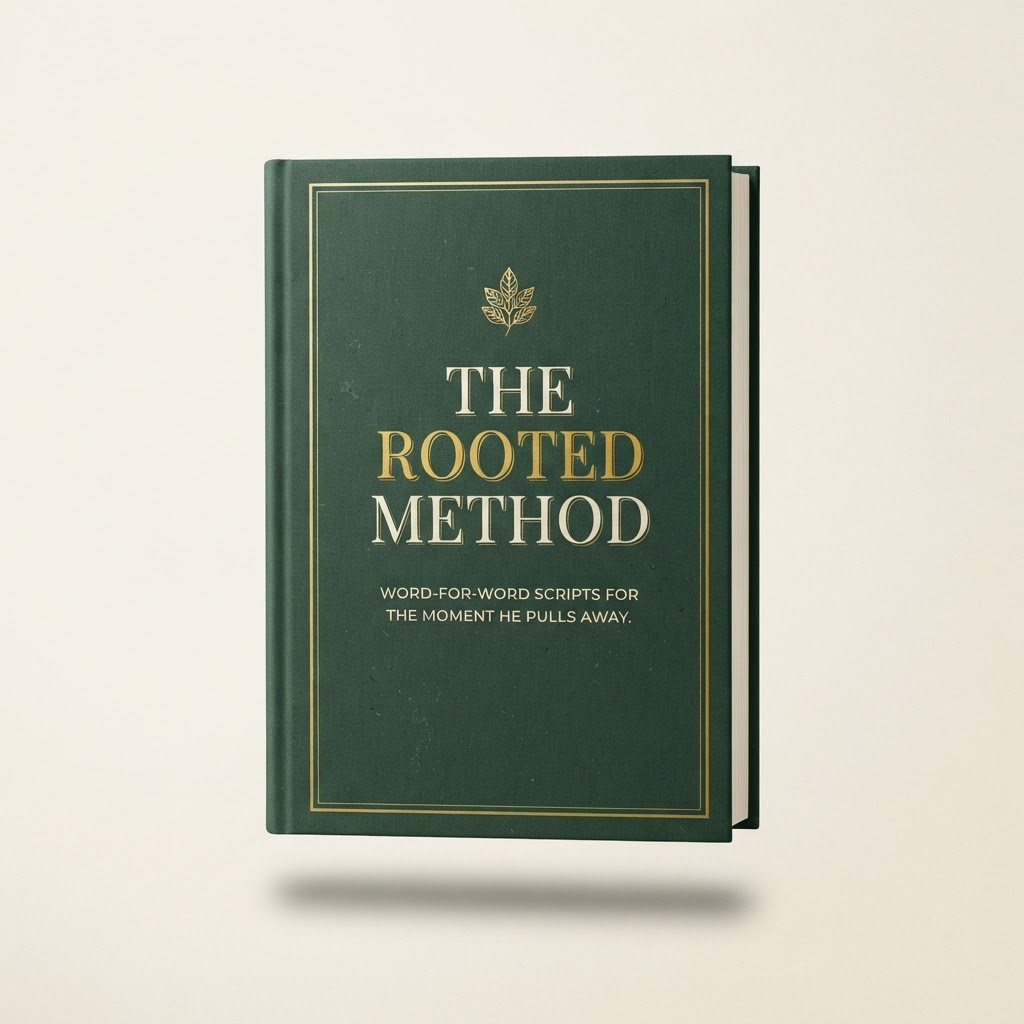
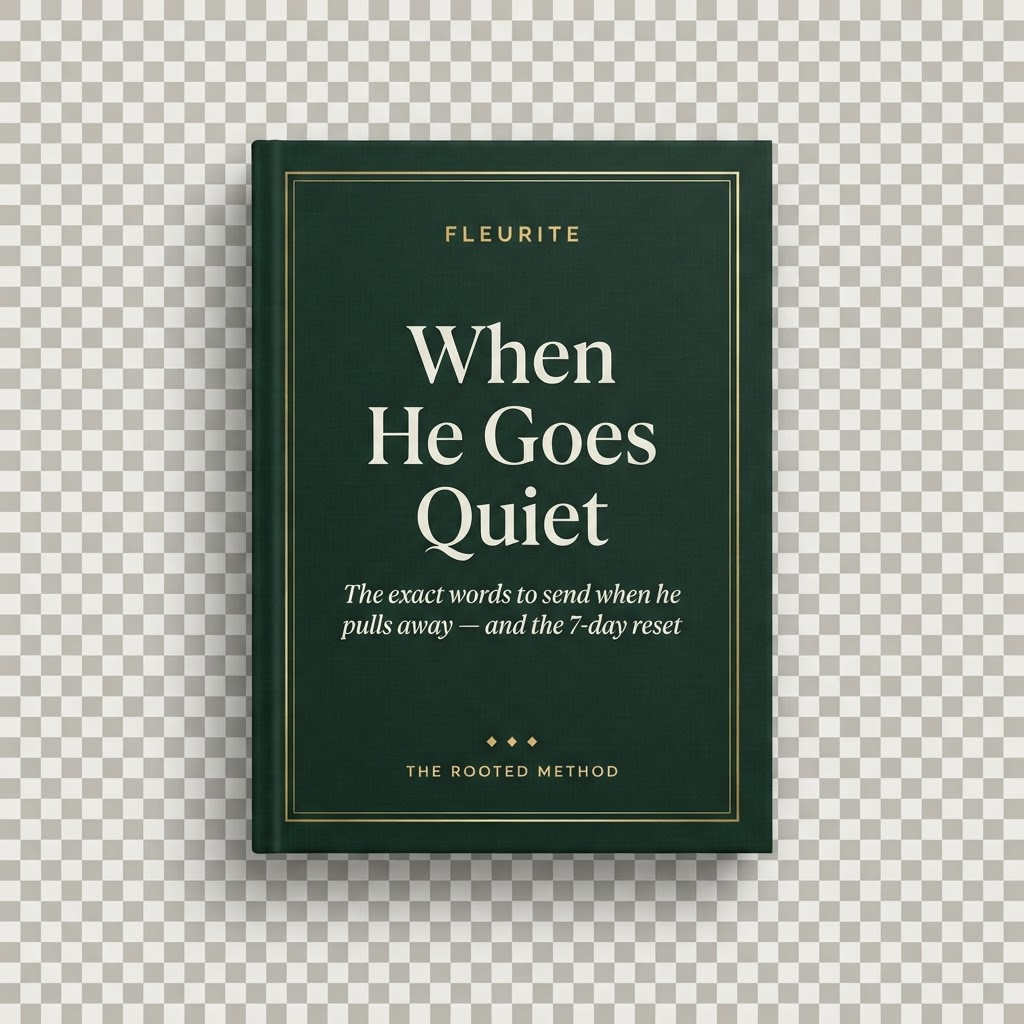
feat: update site content for new book release and add security headers

diff --git a/src/app/layout.tsx b/src/app/layout.tsx
@@ -20,20 +20,20 @@ const fraunces = Fraunces({
 
 export const metadata: Metadata = {
   metadataBase: new URL("https://fleurite.me"),
-  title: "You Were Never Too Much | Fleurite",
-  description: "You weren't born a chaser — you were trained to be one. The Rooted Method helps you stop chasing an avoidant partner, quiet the anxiety, and come home to yourself.",
-  keywords: ["anxious attachment healing", "avoidant partner", "stop chasing", "relationship anxiety", "nervous system regulation", "attachment theory", "secure attachment", "the rooted method"],
+  title: "When He Goes Quiet — 47 Scripts for the Moment He Pulls Away | Fleurite",
+  description: "He goes quiet and you fall apart. Here's exactly what to send. 47 word-for-word scripts, a stay-or-leave framework, and a 7-day reset so you stop chasing an avoidant partner. Instant PDF.",
+  keywords: ["what to text when he pulls away", "avoidant partner scripts", "stop chasing", "relationship anxiety", "anxious attachment", "stay or leave", "nervous system reset", "the rooted method", "when he goes quiet"],
   openGraph: {
-    title: "You Were Never Too Much | Fleurite",
-    description: "Stop chasing, stop shrinking, and come home to yourself. A gentle, psychology-backed book for women loving an emotionally unavailable partner.",
+    title: "When He Goes Quiet — What to Send When He Pulls Away | Fleurite",
+    description: "47 tested, word-for-word scripts for every moment you freeze, fold, or want to chase — plus a stay-or-leave framework and a 7-day reset. Read it tonight, use it tomorrow.",
     type: "website",
     locale: "en_US",
     siteName: "Fleurite",
   },
   twitter: {
     card: "summary_large_image",
-    title: "You Were Never Too Much | Fleurite",
-    description: "It was never that you were too much. Safety was never available. The Rooted Method — a gentle path back to yourself.",
+    title: "When He Goes Quiet — 47 Scripts for the Moment He Pulls Away",
+    description: "You don't need another page telling you to 'just relax.' You need the words. 47 scripts, a decision framework, and a 7-day reset.",
   },
   robots: {
     index: true,

diff --git a/src/components/ProductBreakdown.tsx b/src/components/ProductBreakdown.tsx
@@ -65,16 +65,16 @@ export default function ProductBreakdown() {
         <div className="relative mx-auto mb-12 max-w-3xl overflow-hidden rounded-3xl shadow-xl ring-1 ring-border">
           <Image
             src="/product/bundle.png"
-            alt="Everything inside The Rooted Method — the book, the reflection workbook, printed script cards, and the audio companion"
+            alt="When He Goes Quiet — the complete script system, readable instantly on your phone, tablet, or laptop"
             width={1024}
             height={1024}
             className="w-full object-cover"
           />
           <div className="absolute bottom-0 left-0 right-0 bg-gradient-to-t from-pine-900/80 to-transparent p-5">
             <p className="text-sm font-black text-cream md:text-base">
-              The book + script cards + reflection workbook + audio companion
+              47 scripts + the stay-or-leave framework + the 7-day reset — in one PDF
             </p>
-            <p className="text-xs text-cream/80">Everything downloads instantly. Yours for life.</p>
+            <p className="text-xs text-cream/80">Downloads instantly to any device. Yours for life.</p>
           </div>
         </div>
 

diff --git a/next.config.ts b/next.config.ts
@@ -3,7 +3,23 @@ import type { NextConfig } from "next";
 const nextConfig: NextConfig = {
   output: "standalone",
   serverExternalPackages: ['razorpay', 'pdfkit'],
-  /* config options here */
+  async headers() {
+    return [
+      {
+        source: "/:path*",
+        headers: [
+          { key: "X-Content-Type-Options", value: "nosniff" },
+          { key: "Referrer-Policy", value: "strict-origin-when-cross-origin" },
+          { key: "Strict-Transport-Security", value: "max-age=63072000" },
+          { key: "X-Frame-Options", value: "SAMEORIGIN" },
+          {
+            key: "Permissions-Policy",
+            value: "camera=(), microphone=(), geolocation=()",
+          },
+        ],
+      },
+    ];
+  },
 };
 
 export default nextConfig;

diff --git a/src/components/Hero.tsx b/src/components/Hero.tsx
@@ -114,7 +114,7 @@ export default function Hero() {
           <div className="relative rounded-[2rem] bg-gradient-to-br from-pine-100/60 via-blush/40 to-gold-100/50 p-4 sm:p-6">
             <Image
               src="/product/book-cover.png"
-              alt="The Rooted Method — word-for-word scripts for the moment he pulls away"
+              alt="When He Goes Quiet — 47 word-for-word scripts for the moment he pulls away"
               width={460}
               height={460}
               priority

diff --git a/src/app/page.tsx b/src/app/page.tsx
@@ -10,7 +10,6 @@ import FAQ from '@/components/FAQ';
 import Footer from '@/components/Footer';
 import StickyBar from '@/components/StickyBar';
 import FadeIn from '@/components/FadeIn';
-import CheckoutGateway from '@/components/CheckoutGateway';
 
 export default function Home() {
   return (
@@ -45,7 +44,6 @@ export default function Home() {
       </main>
       <Footer />
       <StickyBar />
-      <CheckoutGateway />
     </div>
   );
 }
